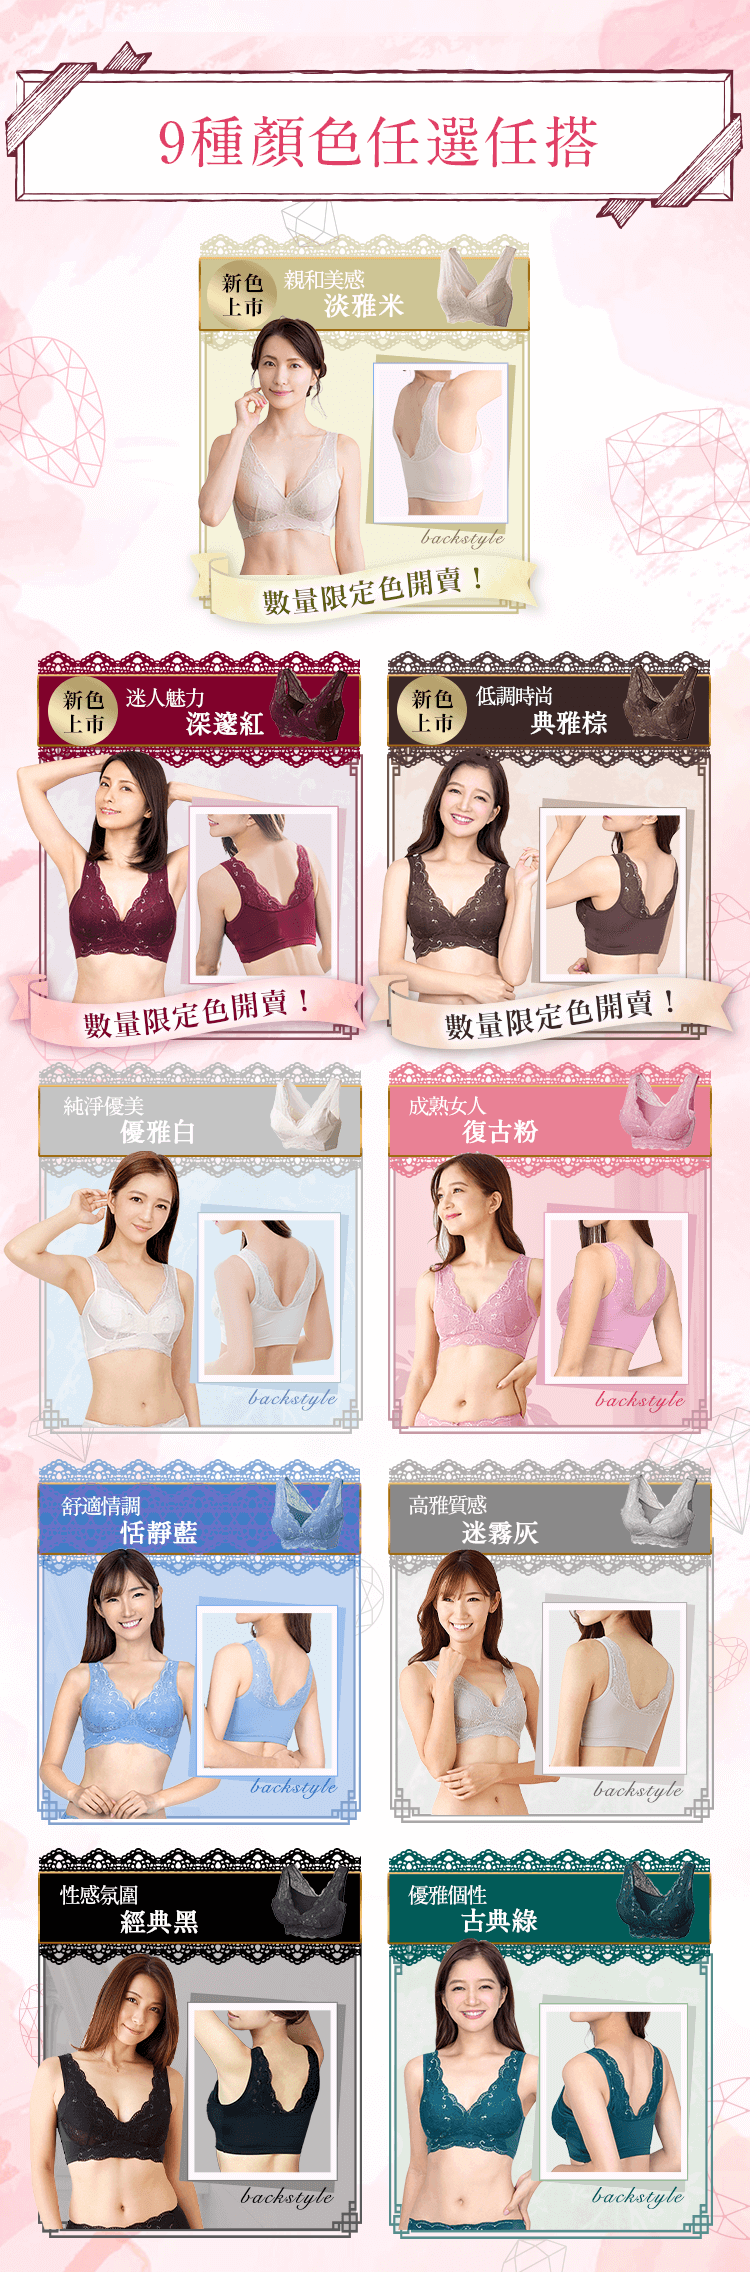
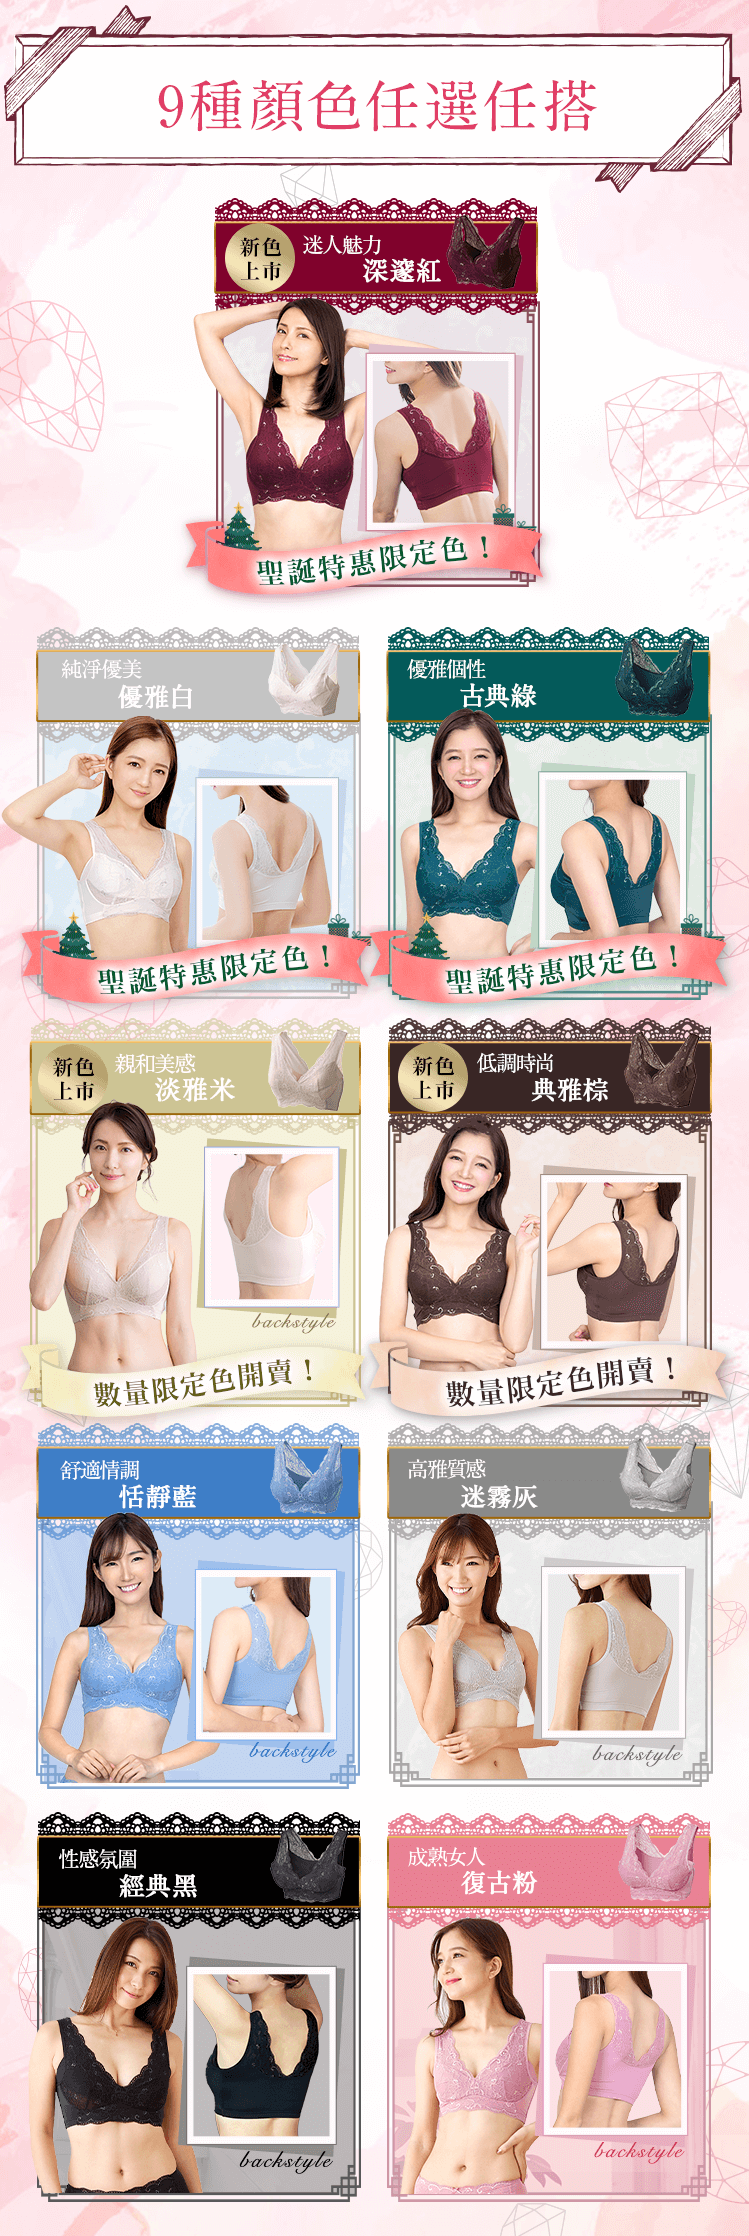
20211222_Xmas

diff --git a/index.html b/index.html
@@ -106,10 +106,16 @@
                     <!-- main pc -->
                     <div class="fv">
                         <img src="images/01_banner.png" alt="">
+                        <a href="#Xmas">
+                            <img src="images/01_Xmas.png" alt="" class="Xmas_btn">
+                        </a>
                         <img src="images/02_fv.png" alt="">
                         <img src="images/03_sales.png" alt="">
                         <img src="images/04_set05.png" alt="">
                         <img src="images/05_data.png" alt="">
+                        <div id="Xmas" class="Xmas" style="display: none;">
+                            <img src="images/07_Xmas.png" alt="">
+                        </div>
                         <a href="#buy">
                             <img src="images/07_offer.png" alt="">
                         </a>

diff --git a/js/all.js b/js/all.js
@@ -7,6 +7,15 @@ $(document).ready(function () {
         }, 900);
     });
 
+    // 點01_Xmas_btn會連到並"展開"id="Xmas"
+    $('.Xmas_btn').click(function (e) {
+        e.preventDefault();
+        $(".Xmas").attr("style", "display:block;");
+        $('html , body').animate({
+            scrollTop: $('#Xmas').offset().top,
+        }, 900);
+    });
+
     // $("#wh-call-to-action").removeAttr("wh-click");
     $("#wh-call-to-action").removeClass("wh-animation-in");
     //聊天機器人
